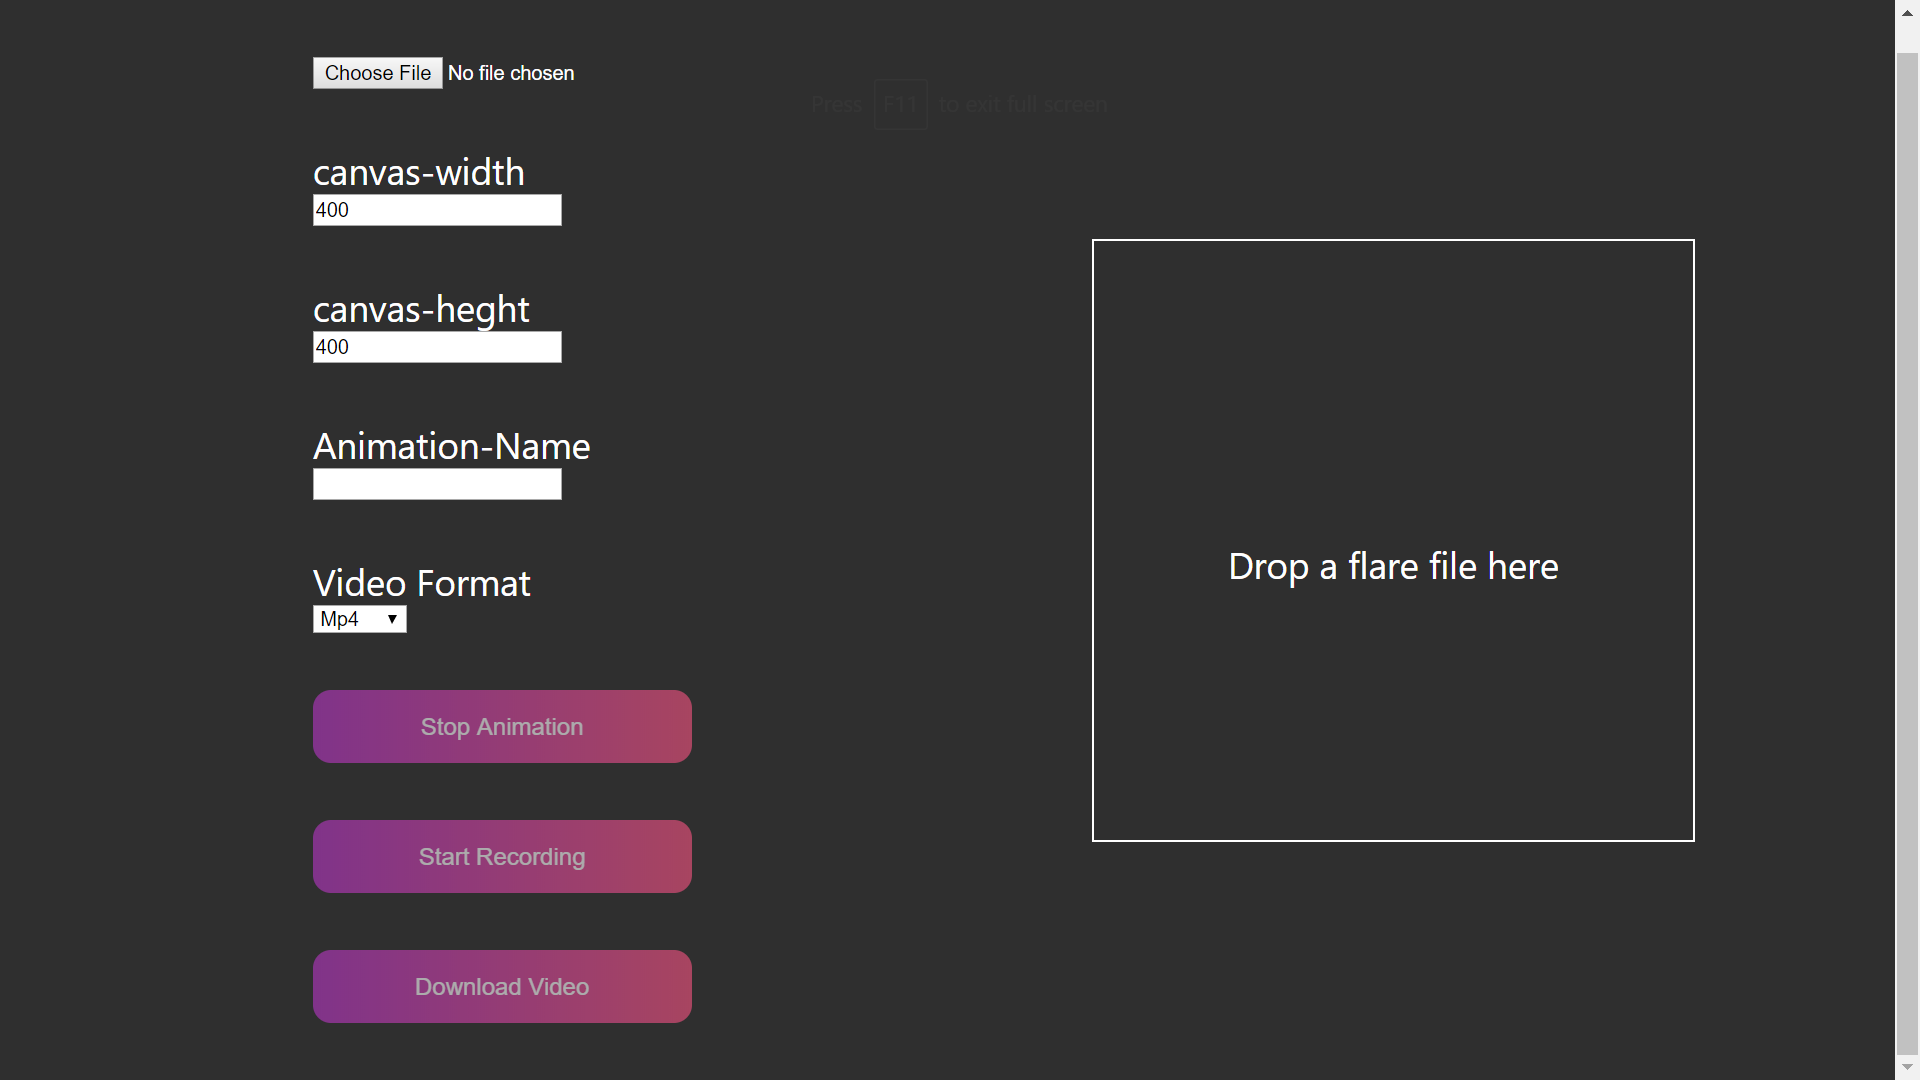
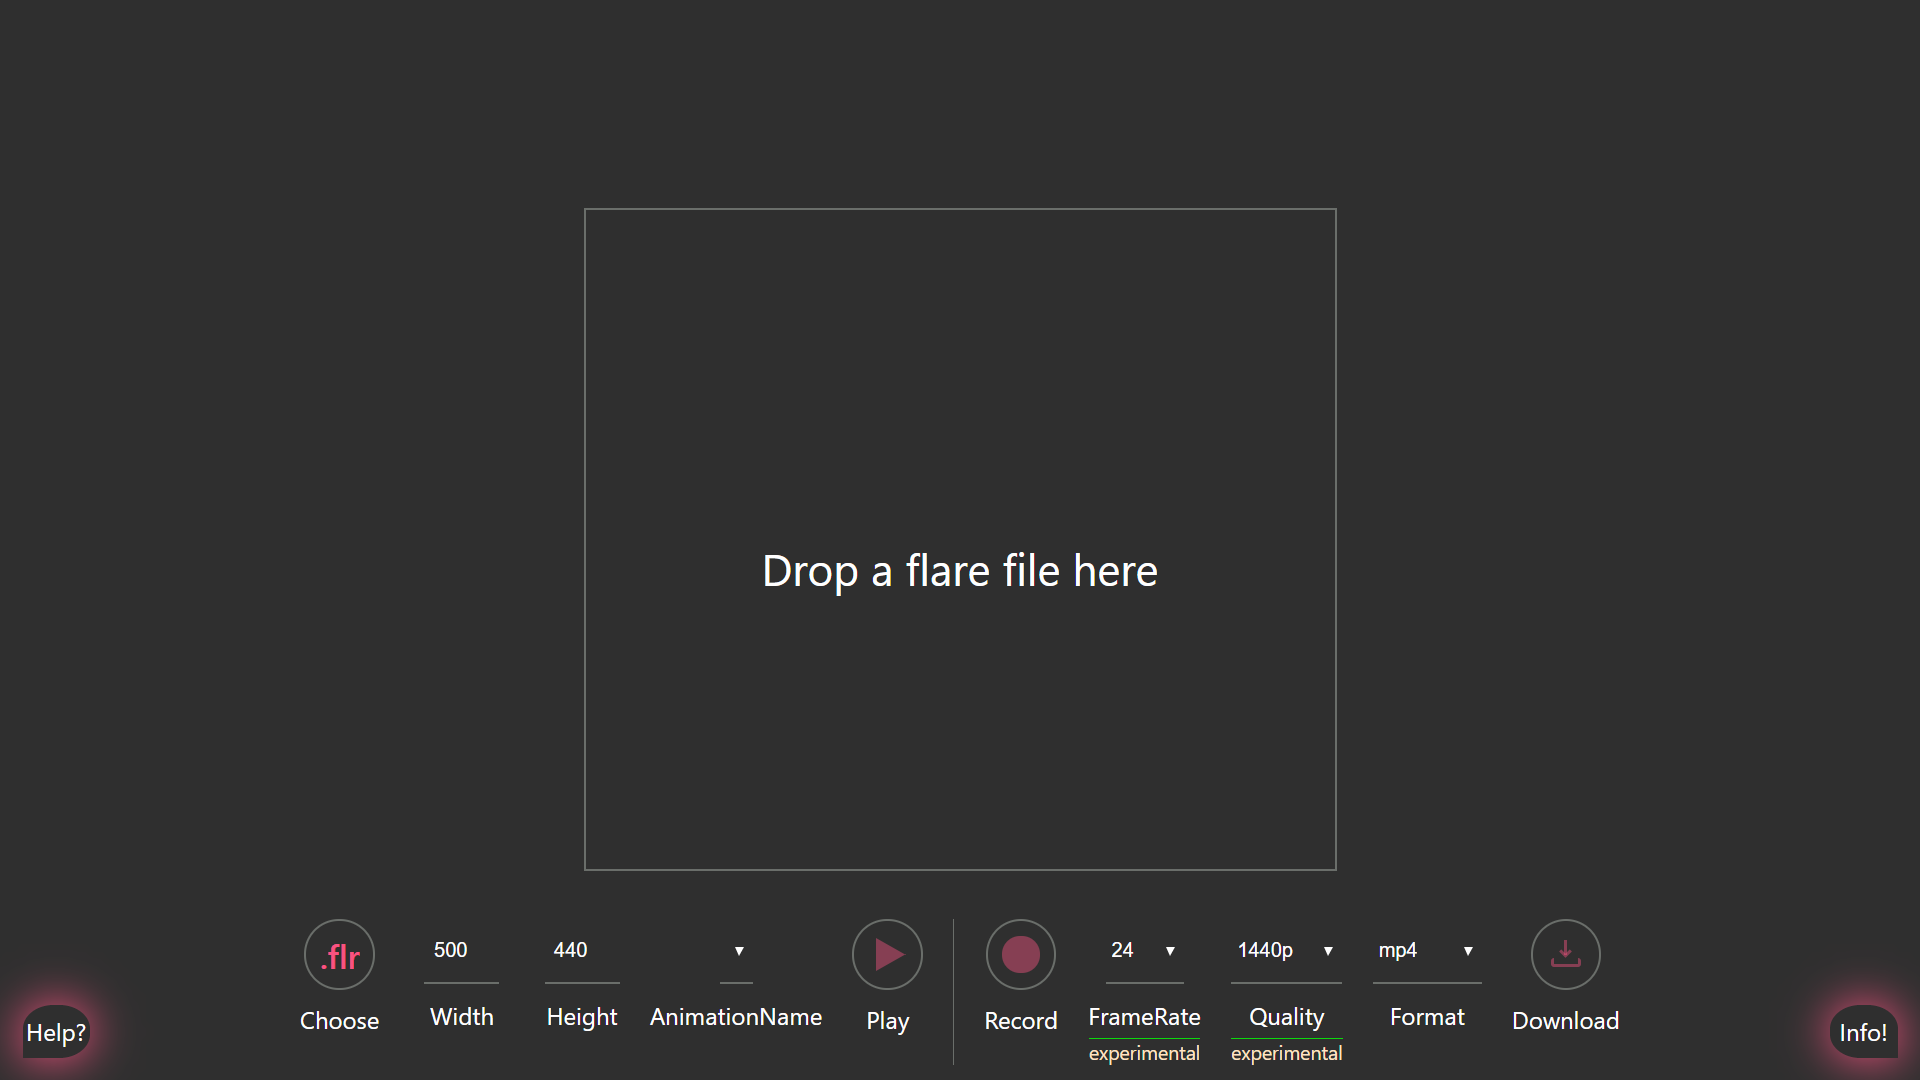
Updated the poster and Readme.

diff --git a/README.md b/README.md
@@ -15,20 +15,22 @@ Note: This is still a wip progress app. Following instructions might not just wo
 3. run `npm install`
 4. run `npm start`
 
-## How to Use
+## How to Use this site
 
 1. First choose the flare file or drag and drop the flare file on to the drop zone marked in big white bordered box.
 2. Adjust the canvas width and height to your preferences
 3. Choose the type of video to be exported.
-4. Type in the animation name which is to be played from the flare file.
-   - If the animation name is typed correctly it will start playing the animation.
-   - Ensure its the correct animation.
-   - It is prefered to have a repeated animation. Otherwise you have to restart the animation and then immediately click the record button.
-5. Choose when to start recording the video and click the start recording button.
-6. Then stop the recording as and when required.
-   > PLease stop the recording within a limited duration(maybe a minute or so). Note that the recorded buffer is part of your javascript memory and could lead to high memory usage. I haven't tested how long this in memory buffer can sustain. :|
-7. Click the download button to download the video in your prefered format.
-   > Soon a gif download option will be tried.. :)
+   
+   >***Video Framerate & Quality attributes are work in progress. Still experimental. Not completely tested.***
+4. Choose the animation name from the list box if you have more than one.
+5. Press te play button to check if the animation plays well as expected.    
+   * Always plays in loop.
+   >*Otions to enable/disable loops are being assesed.* &#x1F9D0
+6. When you are ready to record click the record button. 
+   >***Note: This will automatically restart the current animation in a loop.***
+7. Then stop the recording as and when required.
+   >*Please stop the recording within a limited duration(maybe couple of minutes). Note that the recorded buffer is part of your javascript memory and could lead to high memory usage. I haven't tested how long this in memory buffer can sustain.* &#x1F60B
+8. Click the download button to download the video in your prefered format.
 
 ## To-Do's
 
